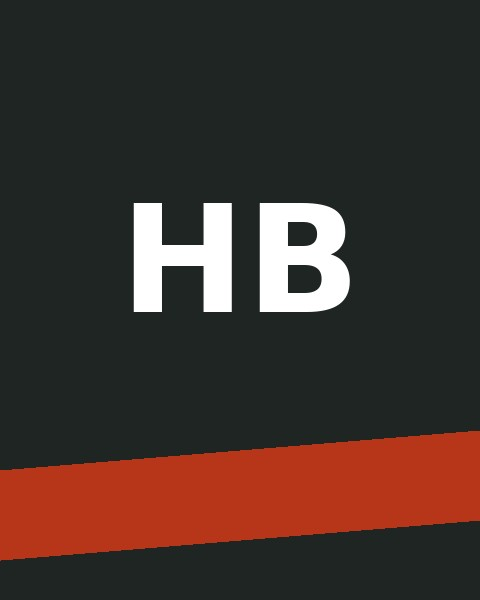
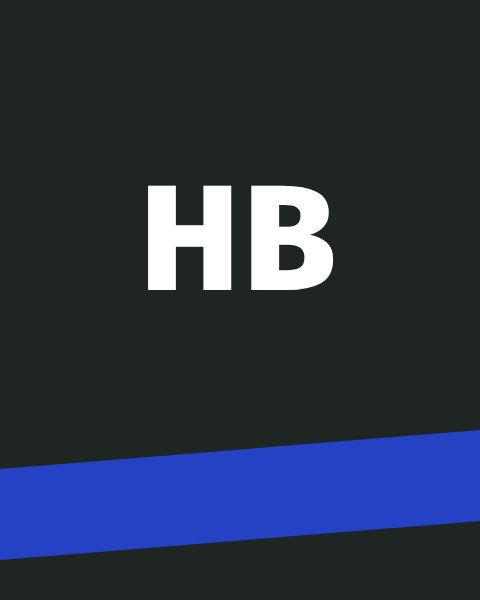
Köpfe: jedes Gremium vollständig anzeigen
Bisher erschien jede Person nur einmal auf der Seite. Dadurch fehlten im
Gemeinderat und in den Kommissionen Personen, die schon im Vorstand
standen (Martina Wipf, Iwan Walther, Lorenz Gerber-Cartier, Michaela
Rodrigues-Udry). Neu ist jeder Abschnitt vollständig:
- eigene Abschnitte für PBBK, Bildungskommission und EWK, mit Sitzzahl
- auf jeder Karte steht die Funktion des Abschnitts zuoberst
- Behörden: «bisher» vor «neu»
- die Namenslisten (Besetzung.astro) entfallen
- Initialen-Platzhalter von Helena Burri und José Saez neu in Blau
- Entscheid im Briefing (Kap. 14) nachgetragen

Claude-Session: https://claude.ai/code/session_01AvRukhPMtTugyZrNgYVtMe

Changed region(s): [[0.0, 0.69, 1.0, 0.96], [0.25, 0.3, 0.75, 0.54], [0.4062, 0.48, 0.5, 0.54]]

diff --git a/docs/IGD-Website-Relaunch-Briefing.md b/docs/IGD-Website-Relaunch-Briefing.md
@@ -418,3 +418,4 @@ Lorenz jeden dieser Schritte in einfachen Worten erklären und Zugangsdaten **ni
 | 1.11.2026 | Mitgliederbeitrag **CHF 20.– pro Jahr**. Die Postadresse c/o Michaela Rodrigues-Udry darf publiziert werden. |
 | 1.11.2026 | Formulare gehen bis zum Go-live an Lorenz Gerber (Adresse nur in den Netlify-Einstellungen, nicht im Code). CMS-Pflege: Lorenz, Michaela, Helena. |
 | 1.11.2026 | Netlify bleibt für den Prototyp im Gratisabo (keine weiteren Team-Mitglieder). |
+| 1.11.2026 | **Köpfe: jedes Gremium vollständig** (präzisiert Kap. 7.4). Wer in mehreren Gremien ist, erscheint in jedem Abschnitt; die Karte zeigt jeweils alle Funktionen, die des Abschnitts zuoberst. Kommissionen mit eigenem Untertitel und Sitzzahl. Behörden: «bisher» vor «neu». |
